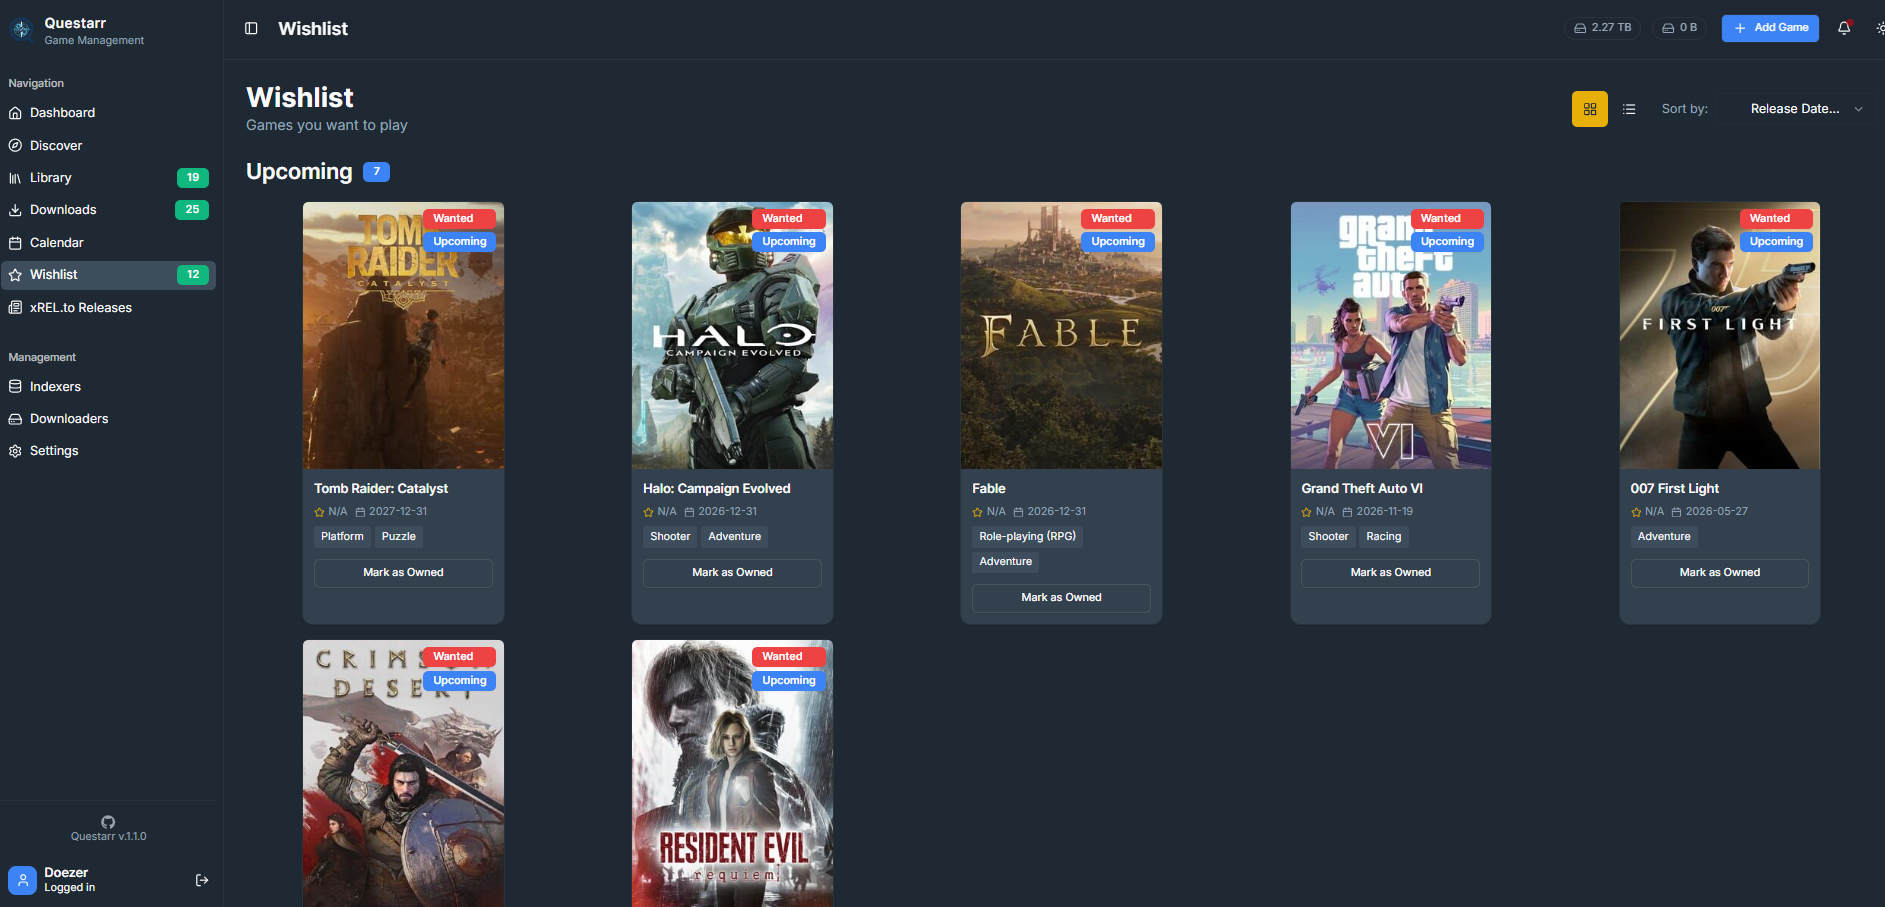
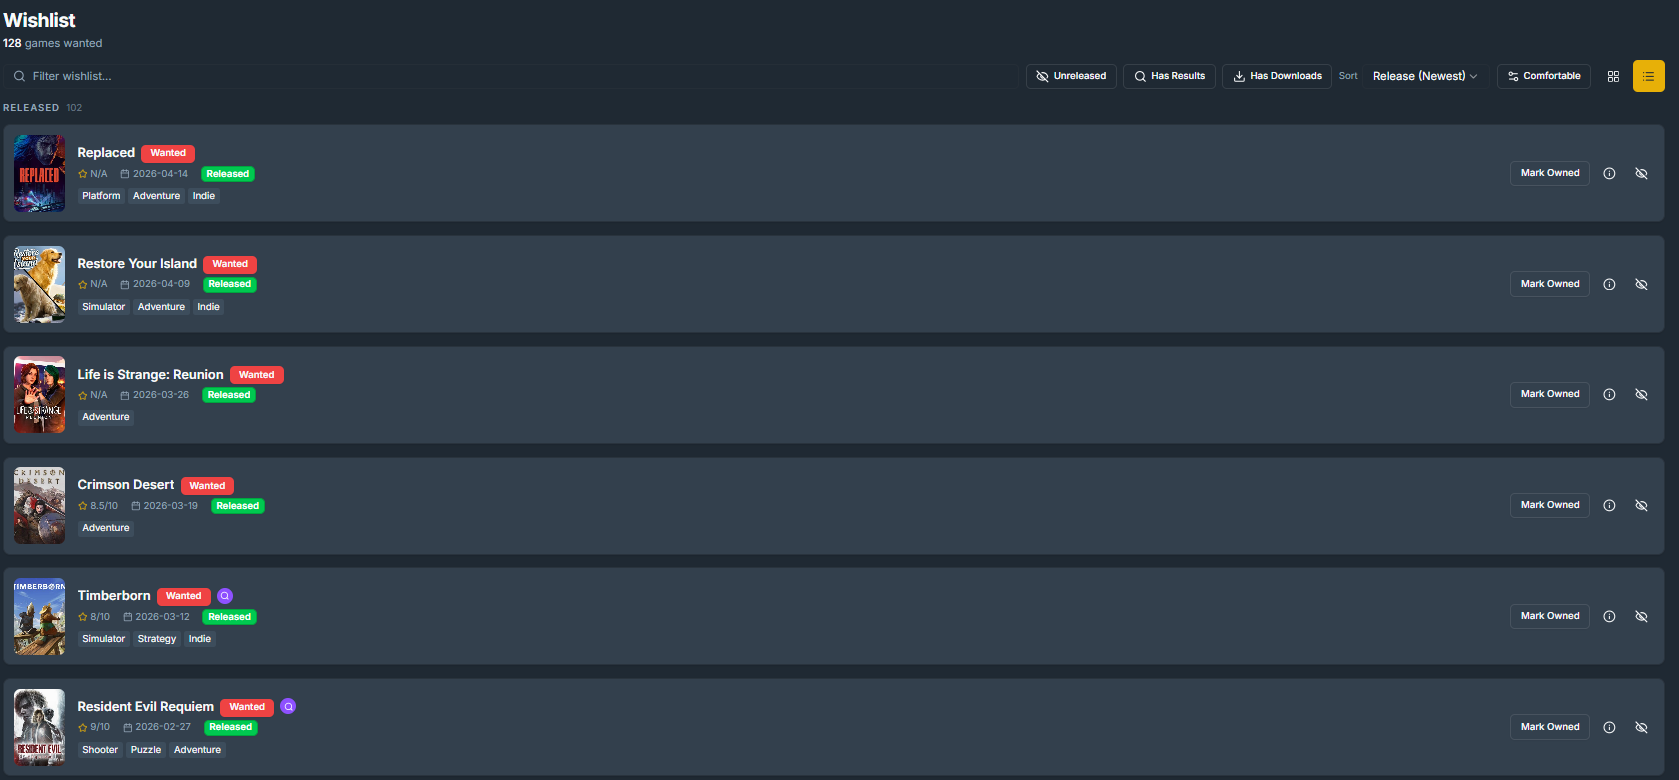
1.3.0 finish touches

diff --git a/docs/CHANGELOG.md b/docs/CHANGELOG.md
@@ -2,6 +2,81 @@
 
 All notable changes to this project will be documented in this file.
 
+## [1.3.0] - 2026-04-11
+
+### Added
+
+- **Steam Wishlist Sync**: New button near Add game (displayed with Steam ID is provided in the settings) to sync up your backlog with your Steam wishlist, adding all games as wanted.
+- **Add Game UX**: Pre-fill the add game search value with the current dashboard search query; display release date in the modal.
+- **New game badges**: Three new games badges:
+  - Results available, badge displayed when a game has downloads available (#517).
+  - Update available, for owned games that have update type downloads available.
+  - "Early Access" badge (#519).
+- **Game Details Modal Redesign**:
+  - Tabbed UI with IGDB metadata, full download history, game related links.
+  - Game Data Integrations: IGDB and Steam metadata enrichment, HowLongToBeat (#537), PCGamingWiki game URL lookup (#538), and NexusMods integration (#540).
+  - User Ratings: Rate games directly from the game details (#530).
+- **Notification on Download**: Notification updated when a download is sent to the download client, to display the downloader's name.
+- **Download Linking**: Per-game and batch linking to games to claim existing downloads (#543).
+- **New settings**
+  - **Preferred Platform**: Select a preferred platform and filter results accordingly (#531).
+  - **Preferred Release Groups**: Configure preferred release groups for auto-download, auto search and pre-filtering (#491).
+  - **Auto-Search Control**: Disable auto-search for unreleased games with possibility to enable in settings (#394).
+- **Stats Page**: New statistics page with Discord sharing support (#384, #493).
+- **Blacklist Releases**: Blacklist unwanted releases directly from download search results (#490).
+- **Updates Filter**: Filter library to show only games with available updates (#548).
+- **Hide from Library**: Hide button in game details, accessible from all pages (#439).
+- **Search Fields**: Added search/filter field to calendar, downloads, and wishlist pages.
+- **Calendar — Year-Only Section**: Separate calendar section for games with a year-level release date but no exact date.
+- **Download Enhancements**: Download indicators and shared view controls (#484); freeleech status, poster name, and leecher count per download item (#516); "Questarr-added" toggle (#523); platform filter in download dialog (#518).
+- **Sidebar Page Counters**: Sidebar now shows active download count only; full counters added to the downloads page (#503).
+- **Wishlist Improvements**: Toggle to show/hide unreleased games with reordered sections (released first) (#460).
+- **Login Page**: GitHub link with current version info (#481).
+- **Inline Priority**: Change indexer and downloader priority inline without opening settings.
+- **PageToolbar**: Unified toolbar component replacing the standalone SearchBar and DisplaySettingsModal across pages (#521).
+- **Migration Repair**: Automatic schema repair for the v1.2.2 → v1.3.0 migration path, to account for people using v1.3.0 before release. (#542).
+
+### Security
+
+- **SSRF**: Fixed SSRF vulnerabilities in RSS feed fetching (#404, #468) and magnet link redirects in qBittorrent (#508).
+- **SSRF DNS Rebinding**: Fixed DNS rebinding bypass in SSRF protection layer (#385).
+- **Rate Limiting**: Added brute-force rate limiting to the login endpoint (#455).
+- **Credential Exposure**: Fixed credential logging, weak session secret enforcement, and missing brute-force protection (#415).
+- **Information Leakage**: Fixed error messages exposing internal details (#421).
+- **axios CVE**: Resolved critical axios vulnerability (#547).
+- **CI Hardening**: Applied security best practices and pinned action SHAs in GitHub Actions workflows (#494, #504).
+- **node-forge**: Upgraded from 1.3.3 to 1.4.0 to resolve a known vulnerability (#496).
+
+### Changed
+
+- **Lazy Loading**: Game details and download dialogs are now lazy-loaded for faster initial page load (#422).
+- **Performance**: Server-side filtering for user games (#386); batch DB updates in game update cron job (#405); memoized sorted game lists in wishlist (#509); memoized search result sorting (#533).
+- **Steam**: Removed Steam sign-in button and Steam API key requirement; fixed wishlist sync (#428).
+- **IGDB**: Platform retrieval is now paginated to return complete results (#471).
+- **RTorrent**: Refactored download path handling to prevent double-nesting of category directories.
+- **Download Dialog**: Removed non-functional files field from the game download dialog UI; dialog no longer auto-closes after a successful download.
+- **Game Card**: Displays primary genre only and shows N/A for unrated games.
+- **Notifications**: Game update notifications now trigger only for owned games (#438).
+
+### Fixed
+
+- SABnzbd downloads lost on queue→history transition (#511).
+- RTorrent download directory and NZB file parameter stripping (#472).
+- Transmission download failures: RPC errors now surfaced correctly (#436).
+- Torznab client not correctly handling Prowlarr redirect links (#487).
+- Magnet link redirect handling for Transmission and rTorrent clients.
+- Platform select dropdown overflowing the viewport (#512).
+- Download search results, UI state, and download action visibility (#515, #557).
+- IGDB request failures on the Discover page (#522).
+- Sort option "Health" not sorting correctly (#390).
+- Search bar position displaced by clear button; stats bar disappearing during search.
+- Validation error when adding a game without a cover URL.
+- Pino logging objects by reference instead of value.
+- One-time IGDB retry on HTTP 429 to avoid hammering the API.
+- Download results table header not sticky during scroll.
+
+---
+
 ## [1.2.2] - 2026-02-26
 
 ### Security

diff --git a/CLAUDE.md b/CLAUDE.md
@@ -53,22 +53,28 @@ npm run db:push          # Push schema directly (dev only)
 
 Three-layer TypeScript app with a single `package.json` (not a monorepo):
 
-- **`/client/src`** — React 18 SPA. Wouter routing, TanStack React Query for server state, shadcn/ui + Radix primitives, Tailwind CSS 4. Pages are code-split with `React.lazy`.
+- **`/client/src`** — React 18 SPA. Wouter routing, TanStack React Query for server state, shadcn/ui + Radix primitives, Tailwind CSS 4. Pages are code-split with `React.lazy`. Pages: library, discover, search, wishlist, calendar, downloads, indexers, downloaders, rss, xrel-releases, stats, settings.
 - **`/server`** — Express REST API + Socket.io WebSockets. JWT auth (bcryptjs), express-validator for input validation, Pino logging, SSRF-protected fetch.
 - **`/shared`** — Drizzle ORM schema (`schema.ts`), Zod validation schemas (derived from Drizzle), game title normalization (`title-utils.ts`), download categorization.
 
 ### Key backend modules
 
-| File             | Purpose                                                                                 |
-| ---------------- | --------------------------------------------------------------------------------------- |
-| `routes.ts`      | All API endpoints (~2700 lines, organized by domain)                                    |
-| `storage.ts`     | Database access layer (Drizzle queries)                                                 |
-| `downloaders.ts` | Multi-client download management (qBittorrent, Transmission, rTorrent, sabnzbd, nzbget) |
-| `igdb.ts`        | IGDB API client with in-memory cache                                                    |
-| `search.ts`      | Aggregated Torznab/Newznab indexer search                                               |
-| `cron.ts`        | Scheduled jobs (auto-search, download checks, xREL monitoring, game updates)            |
-| `middleware.ts`  | Rate limiters, validators, sanitizers                                                   |
-| `ssrf.ts`        | SSRF URL validation (DNS rebinding, cloud metadata filtering)                           |
+| File                     | Purpose                                                                                 |
+| ------------------------ | --------------------------------------------------------------------------------------- |
+| `routes.ts`              | All API endpoints (~3360 lines, organized by domain)                                    |
+| `storage.ts`             | Database access layer (Drizzle queries)                                                 |
+| `downloaders.ts`         | Multi-client download management (qBittorrent, Transmission, rTorrent, sabnzbd, nzbget) |
+| `igdb.ts`                | IGDB API client with in-memory cache                                                    |
+| `search.ts`              | Aggregated Torznab/Newznab indexer search                                               |
+| `cron.ts`                | Scheduled jobs (auto-search, download checks, xREL monitoring, game updates)            |
+| `middleware.ts`          | Rate limiters, validators, sanitizers                                                   |
+| `ssrf.ts`                | SSRF URL validation (DNS rebinding, cloud metadata filtering)                           |
+| `hltb.ts`                | HowLongToBeat client — gameplay time lookup with 24h cache and fuzzy title matching     |
+| `nexusmods.ts`           | NexusMods API client — mod search and trending mods per game                            |
+| `steam.ts`               | Steam wishlist import and Steam App ID resolution                                       |
+| `steam-routes.ts`        | Express router for Steam endpoints                                                      |
+| `pcgamingwiki-router.ts` | PCGamingWiki URL lookup via Steam App ID (CargoQuery API, 24h cache)                    |
+| `config.ts`              | System-wide configuration access layer                                                  |
 
 ### Data flow
 
@@ -79,7 +85,9 @@ Three-layer TypeScript app with a single `package.json` (not a monorepo):
 
 ### Database
 
-SQLite with Drizzle ORM. Schema defined in `shared/schema.ts`. Migrations in `/migrations/`. Key tables: `users`, `userSettings`, `games`, `indexers`, `downloaders`, `gameDownloads`, `notifications`, `rssFeeds`, `rssFeedItems`.
+SQLite with Drizzle ORM. Schema defined in `shared/schema.ts`. Migrations in `/migrations/`. Key tables: `users`, `userSettings`, `systemConfig`, `games`, `indexers`, `downloaders`, `gameDownloads`, `notifications`, `rssFeeds`, `rssFeedItems`, `xrelNotifiedReleases`, `releaseBlacklist`.
+
+Notable game fields added: `steamAppId`, `hidden` (boolean), `userRating` (0.5–10 scale), `source` ("manual" | "steam" | "api"). User fields: `steamId64`. UserSettings fields: `preferredReleaseGroups`, `steamSyncFailures`.
 
 ## Code Conventions
 

diff --git a/README.md b/README.md
@@ -35,11 +35,12 @@
 
 ## Features
 
-- **🎮 Game Discovery**: Browse popular games, new releases, and upcoming titles via IGDB integration and xREL.to.
-- **📚 Library Management**: Track your game collection with status indicators (Wanted, Owned, Playing, Completed).
-<!--- **☁ Steam Integration**: Sync your Steam wishlist and import your library automatically. -->
+- **🎮 Game Discovery**: Browse popular games, new releases, and upcoming titles via IGDB integration and xREL.to. Sync your Steam wishlist.
+- **📚 Library Management**: Track your game collection with status indicators (Wanted, Owned, Playing, Completed), user ratings, and Early Access badges.
 - **⬇ Download Management**: Integrate with indexers (Prowlarr/Torznab/Newsznab), torrent/usenet downloaders (qBittorrent, Transmission, rTorrent / sabnzbd, nzbget), and optionally enable auto-download to get them right when they're there.
-- **🔍 Search & Filter**: Find games by genre, platform, and search terms. Automatically search for added games until available on your indexers.
+- **🔍 Search & Filter**: Find games by genre, platform, and search terms. Automatically search for added games until available on your indexers. Blacklist unwanted releases and set preferred release groups and platforms.
+- **🗂 Rich Metadata**: Game details enriched with IGDB, Steam, HowLongToBeat, PCGamingWiki links, and NexusMods pages, as well as trending mods (if applicable).
+- **📊 Stats Page**: Visualize your collection statistics, with Discord sharing support.
 - **📰 RSS Feeds**: Monitor releases from your favorite groups directly within the app.
 - **🔒 Privacy Focused**: No external dependencies (even google fonts are locally hosted) and hardened security (CSP, SSRF protection), as well as SSL support.
 - **✨ Clean Interface**: UI optimized for browsing game covers and metadata, with light/dark mode.
@@ -54,7 +55,11 @@
 Your central hub for recent activity, collection overview and downloading available games.
 
 <a href="images/Screenshots/dashboard.png"><img src="images/Screenshots/dashboard.png" /></a>
-<a href="images/Screenshots/download_modal.png"><img src="images/Screenshots/download_modal.png" /></a>
+
+<p float="left">
+  <a href="images/Screenshots/game_details.png"><img src="images/Screenshots/game_details.png" width="49%" /></a>
+  <a href="images/Screenshots/download_modal.png"><img src="images/Screenshots/download_modal.png" width="49%" /></a> 
+</p>
 
 ### Discover Games
 
@@ -79,11 +84,26 @@ Manage your wanted and owned games.
 Keep track of upcoming releases.
 <a href="images/Screenshots/calendar.png"><img src="images/Screenshots/calendar.png" /></a>
 
-### Downloads Queue (WIP)
+### Downloads Queue
 
 Monitor your downloaders' active downloads and history.
 
 <a href="images/Screenshots/downloads.png"><img src="images/Screenshots/downloads.png" /></a>
+
+### Statistics
+
+Check out your library statistics.
+
+<a href="images/Screenshots/stats.png"><img src="images/Screenshots/stats.png" /></a>
+
+### RSS & xRel.to feeds
+
+Custom RSS feeds and xRel.to flux matched to IGDB games directly into the app
+
+<p float="left">
+  <a href="images/Screenshots/rss.png"><img src="images/Screenshots/rss.png" width="49%" /></a>
+  <a href="images/Screenshots/xrelto.png"><img src="images/Screenshots/xrelto.png" width="49%" /></a> 
+</p>
 
 ### Settings
 
@@ -114,8 +134,11 @@ Configure indexers, downloaders, and application preferences.
 - **Frontend**: React 18, TypeScript, Vite, Tailwind CSS, shadcn/ui
 - **Backend**: Node.js, Express, TypeScript
 - **Database**: SQLite with Drizzle ORM
-- **APIs**: IGDB (game metadata), Torznab (indexer search)<!-- v1.2.0 only - , Steam API (user library sync)-->
-- **AIs**: Claude Sonnet 4.5, Gemini 3, Google Jules, GitHub Copilot
+- **APIs**: IGDB (game metadata), Torznab/Newznab (indexer search), HowLongToBeat, PCGamingWiki, NexusMods, xREL.to
+- **AIs usage**:
+  - Claude and Github Copilot are used for AI-Assisted coding, internal code reviews, PR cleanup (Gemini previously). Eventually automated coding and troubleshooting for small tasks.
+  - Gemini & Codex are used for automated code reviews, and brainstorming from time to time.
+  - Google Jules was previously used for light periodical refactoring
 
 ## Installation
 
@@ -193,7 +216,6 @@ See [docs/MIGRATION.md](docs/MIGRATION.md) for more details.
 
 - Create your admin account
 - Configure the IGDB credentials
-- Connect your Steam account (Optional)
 
 Once logged-in:
 

diff --git a/.github/copilot-instructions.md b/.github/copilot-instructions.md
@@ -32,8 +32,11 @@ Questarr is a video game management application inspired by the \*Arr ecosystem 
 - **IGDB API**: Game metadata, cover images, screenshots, ratings, and platform information (via Twitch OAuth)
 - **Torznab/Newznab**: Indexer search protocol (torrent/NZB)
 - **Download Clients**: qBittorrent, Transmission, rTorrent, sabnzbd, nzbget
-- **Steam**: OAuth integration for wishlist sync
+- **Steam**: Wishlist import and Steam App ID resolution
 - **xREL.to**: Scene release monitoring
+- **HowLongToBeat**: Gameplay time data with fuzzy title matching (24h cache)
+- **NexusMods**: Mod search and trending mods per game
+- **PCGamingWiki**: Game wiki URL lookup via Steam App ID (CargoQuery API, 24h cache)
 
 ## Project Structure
 
@@ -41,13 +44,13 @@ Questarr is a video game management application inspired by the \*Arr ecosystem 
 /client              # Frontend React application
   /src               # React components and client code
     /components      # Reusable React components
-    /pages           # Page components (lazy loaded)
+    /pages           # Page components (lazy loaded): library, discover, search, wishlist, calendar, downloads, indexers, downloaders, rss, xrel-releases, stats, settings
     /hooks           # Custom React hooks
     /lib             # Utilities & services (auth, queryClient, etc.)
     /components/ui   # shadcn/ui component library
 /server              # Backend Express application
   index.ts           # Server entry point, middleware chain
-  routes.ts          # All API endpoints
+  routes.ts          # All API endpoints (~3360 lines, organized by domain)
   storage.ts         # Database access layer (Drizzle queries)
   middleware.ts      # Rate limiters, validators, sanitizers
   auth.ts            # JWT generation/verification, password hashing
@@ -59,6 +62,12 @@ Questarr is a video game management application inspired by the \*Arr ecosystem 
   socket.ts          # WebSocket setup (Socket.io)
   torznab.ts         # Torznab protocol client
   newznab.ts         # Newznab protocol client
+  hltb.ts            # HowLongToBeat client (gameplay time data)
+  nexusmods.ts       # NexusMods API client (mod search)
+  steam.ts           # Steam wishlist import and App ID resolution
+  steam-routes.ts    # Express router for Steam endpoints
+  pcgamingwiki-router.ts  # PCGamingWiki URL lookup via Steam App ID
+  config.ts          # System-wide configuration access layer
 /shared              # Shared code between client and server
   schema.ts          # Drizzle ORM schema + Zod validation schemas
   title-utils.ts     # Game title normalization & matching
@@ -154,7 +163,7 @@ Pre-commit hooks (Husky + lint-staged) run ESLint + Prettier on staged files aut
 
 1. **API Design**: Follow RESTful principles for route design.
 2. **Error Handling**: Always handle errors with try-catch blocks.
-3. **Database**: Use Drizzle ORM for all database operations. Define schemas in `shared/schema.ts`.
+3. **Database**: Use Drizzle ORM for all database operations. Define schemas in `shared/schema.ts`. Key tables: `users`, `userSettings`, `systemConfig`, `games`, `indexers`, `downloaders`, `gameDownloads`, `notifications`, `rssFeeds`, `rssFeedItems`, `xrelNotifiedReleases`, `releaseBlacklist`. Notable game fields: `steamAppId`, `hidden`, `userRating` (0.5–10), `source` ("manual"|"steam"|"api").
 4. **Authentication**: Use JWT middleware for protected routes. Tokens are verified via `server/auth.ts`.
 5. **Input Validation**: Validate requests with express-validator middleware in `server/middleware.ts`.
 6. **Security**: Use `safeFetch()` from `server/ssrf.ts` for any outbound HTTP requests to prevent SSRF.
